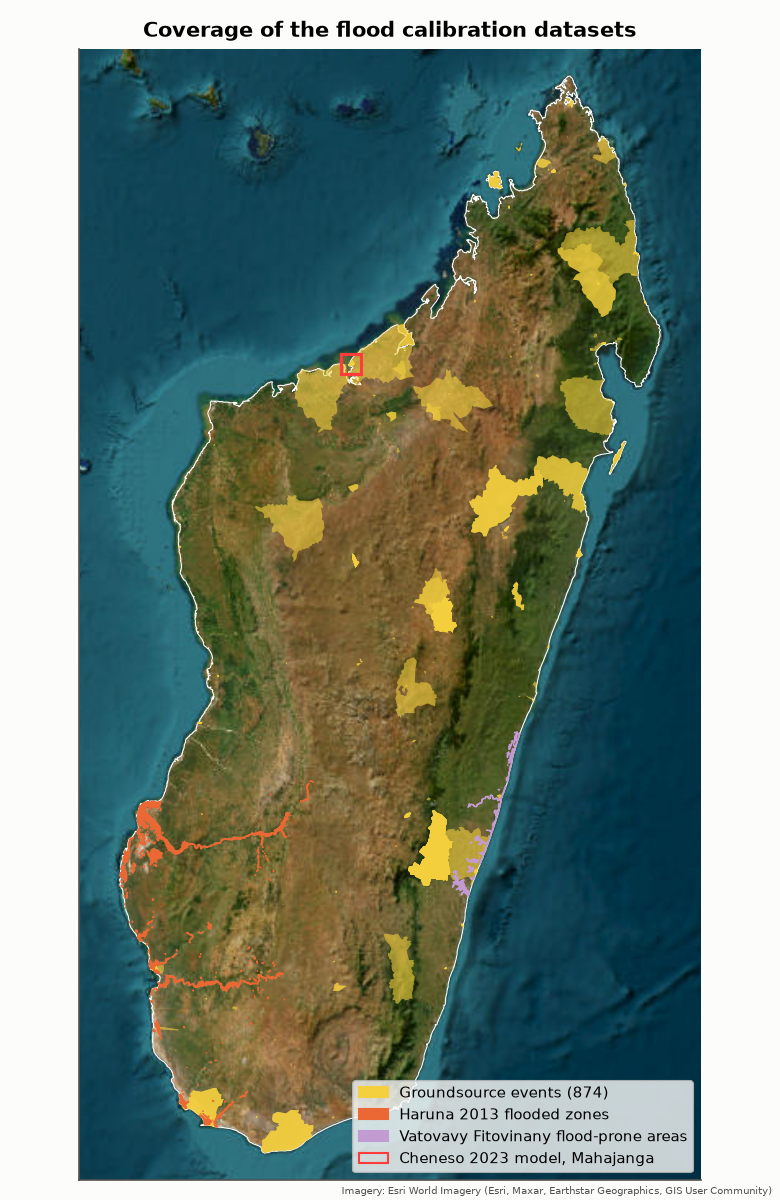
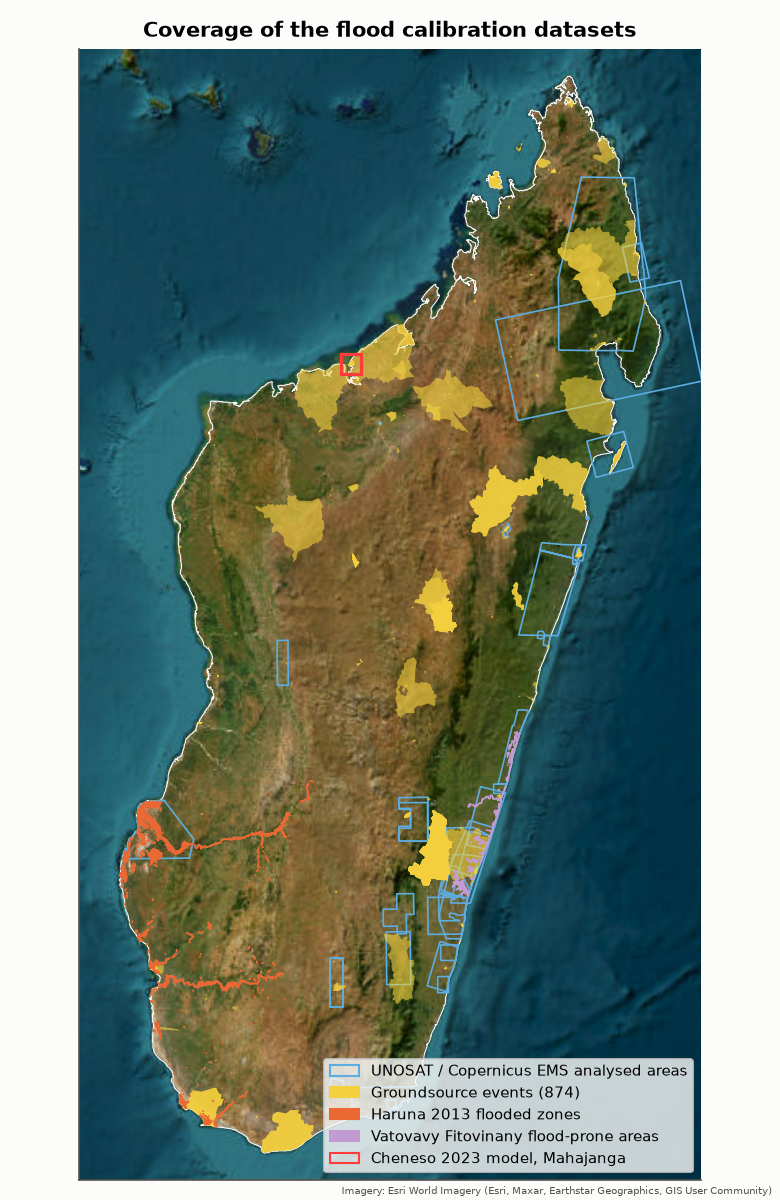
Calibration tab: add UNOSAT and Copernicus EMS flood maps (H5, H6)
Nine UNOSAT event archives (2017-2025, via HDX) and two Copernicus EMS
activations (Fytia, Gezani 2026) with analysed areas, flooded area and
flood-driver split per event, national coverage and example maps.
Event list for calibration/validation updated (Batsirai, Emnati,
Gezani added as main validation events).

diff --git a/web/src/components/Calibration.tsx b/web/src/components/Calibration.tsx
@@ -21,7 +21,14 @@ interface Inventory {
     driver_pct: { coastal: number; fluvial_prone: number; headwater: number }
     top_storms: [string, number][]; top_nontc_months: [string, number][]
   }
+  rapid?: { event: string; source: string; sensors: string; dates: string; n_areas: number; analysed_km2: number | null; flooded_km2: number; driver_pct: Drivers }[]
 }
+
+const rapidRows = (r: Inventory['rapid'], source: string) => (r ?? []).filter((x) => x.source === source).map((x) => [
+  x.event, x.dates || '–', x.sensors, x.n_areas, x.analysed_km2 === null ? '–' : fmt(x.analysed_km2), x.flooded_km2 ? fmt(x.flooded_km2, 1) : 'none mapped',
+  Object.keys(x.driver_pct).length ? `${pct(x.driver_pct, 'coastal')} / ${pct(x.driver_pct, 'fluvial')} / ${pct(x.driver_pct, 'headwater')}` : '–',
+])
+const RAPID_HEAD = ['Event', 'Image dates', 'Sensors', 'Areas', 'Analysed (km²)', 'Flooded (km²)', 'Coastal / fluvial-prone / headwater']
 
 const CHAPTERS: ChapterEntry[] = [
   { id: 'inventory', number: 1, title: 'Inventory of existing calibration and validation datasets', summary: 'What observed and modelled flood data exist for Madagascar, where they lie, what they can and cannot show about pluvial flooding, and which events to simulate next.' },
@@ -141,17 +148,21 @@ export function Calibration({ palette }: { palette: Palette }) {
     ['H1 Groundsource (news)', 'Reported flood locations, 2005–2026', 'Mixed; ~25% of locations in headwater catchments', 'Validation: hit rate at reported locations; event selection', 'Location check for event impact', 'High (many events, national)'],
     ['H2 Haruna 2013, Atsimo Andrefana', 'Mapped flooded zones, one event', 'Mostly fluvial and coastal', 'Validation of a Haruna run on headwater parts; negative test elsewhere', 'Context', 'Medium'],
     ['H3 Vatovavy Fitovinany flood-prone areas', 'Expert map, no event, no return period', 'Mostly coastal and deltaic', 'Qualitative check only', '–', 'Low'],
+    ['H5 UNOSAT flood extents (9 cyclones)', '3–20 m satellite flood maps with analysed areas, 2017–2025', 'Mostly coastal and fluvial; highland catchments in Haute Matsiatra', 'Validation: CSI and false alarms inside analysed areas', 'Event exposure check', 'High'],
+    ['H6 Copernicus EMS (Fytia, Gezani 2026)', 'Very-high-resolution flood delineation', 'Mixed; urban Antananarivo', 'Validation in town (Antananarivo) and on the east coast', 'Event exposure check', 'High, but small areas'],
     ['H4 Cheneso 2023, Mahajanga (modelled)', '1 m depth from a detailed urban drainage model', 'Pluvial with tidal boundary', 'Calibration benchmark (extent and depth)', 'Event exposure check', 'High, but local and modelled'],
     ['R1 Cyclone impact catalogue 2000–2022', 'Deaths, affected, damage per cyclone and year', 'All cyclone causes', '–', 'Upper bound for average annual affected population and loss; event order of magnitude', 'Medium'],
     ['R2 Flood events 1985–2022', 'Deaths and affected per flood event', 'Flooding (21 cyclone events, 1 heavy rain)', '–', 'People affected per event (flood only)', 'Medium'],
   ]
 
   const nextEvents: (string | number)[][] = [
-    ['Cheneso, Jan 2023', 'Cyclone', 'Mahajanga (Metzinger valley); north-west', 'H4 depth and extent; Groundsource locations', 'Calibration: roughness, infiltration (curve number), depth bias. Also run the study\'s 10-year 24 h storm against our 10-year design'],
-    ['Ana, Jan 2022', 'Cyclone (weak) / heavy rain', 'Antananarivo and highlands', `Groundsource (${g?.top_storms.find((s) => s[0].startsWith('Ana'))?.[1] ?? '…'} reports, most of any storm); R1 960,000 affected`, 'Validation of hazard (hit rate) and event affected population'],
-    ['Feb 2015 heavy rains', 'Non-cyclone', 'Antananarivo', `Groundsource (${g?.top_nontc_months.find((s) => s[0] === '2015-02')?.[1] ?? '…'} reports, largest non-cyclone month)`, 'Validation of the 12 h non-cyclone storm'],
-    ['Haruna, Feb 2013', 'Cyclone', 'Atsimo Andrefana (south-west)', 'H2 headwater parts (CSI); fluvial and coastal parts as negative test', 'Validation of extent'],
-    ['Enawo 2017, Batsirai 2022, Gamane 2024', 'Cyclone', 'North-east, east, north', 'Groundsource; R1 (Enawo 415 M USD, 430,000 affected)', 'Validation across regions and event impact'],
+    ['Cheneso, Jan 2023', 'Cyclone', 'Mahajanga (Metzinger valley)', 'H4 depth and extent; Groundsource locations', 'Calibration: roughness, curve-number condition, depth bias; also the study\'s 10-year 24 h storm against our 10-year design'],
+    ['Batsirai and Emnati, Feb 2022', 'Cyclone', 'Haute Matsiatra highlands; south-east plains', 'H5 flood extents (13 areas each), headwater parts first', 'Validation of extent (CSI, hit rate, false alarms) in highland catchments'],
+    ['Gezani, Feb 2026', 'Cyclone', 'Antananarivo; Toamasina; Ambatondrazaka', 'H6 very-high-resolution flooded areas; Groundsource', 'Validation in town; needs IMERG Late rainfall'],
+    ['Ana, Jan 2022', 'Cyclone (weak) / heavy rain', 'Antananarivo and highlands', `Groundsource (${g?.top_storms.find((s) => s[0].startsWith('Ana'))?.[1] ?? '…'} reports); R1 960,000 affected`, 'Validation of hit rate and event affected population (no satellite map)'],
+    ['Feb 2015 heavy rains', 'Non-cyclone', 'Antananarivo', `Groundsource (${g?.top_nontc_months.find((s) => s[0] === '2015-02')?.[1] ?? '…'} reports)`, 'Validation of the 12 h non-cyclone storm'],
+    ['Ava 2018, Freddy 2023', 'Cyclone', 'East and south-east coast', 'H5 flood extents', 'Check that coastal and fluvial flooding is not attributed to the pluvial model (negative test)'],
+    ['Haruna, Feb 2013', 'Cyclone', 'Atsimo Andrefana', 'H2 headwater parts', 'Secondary validation of extent'],
   ]
 
   return (
@@ -161,15 +172,15 @@ export function Calibration({ palette }: { palette: Palette }) {
       <Chapter entry={CHAPTERS[0]}
         builds={<>the design storms (Rainfall tab), the flood model setup and the risk computation (Risk tab).</>}
         outcome={<>
-          One dataset can calibrate (Cheneso in Mahajanga, itself a model); Groundsource and the Haruna extent can validate once
+          One dataset can calibrate (Cheneso in Mahajanga, itself a model); the UNOSAT and Copernicus EMS satellite maps, Groundsource and the Haruna extent can validate once
           fluvial and coastal flooding are set aside; the impact catalogues bound the risk metrics from above. Next steps: simulate the
-          five event groups in the last table, forced with half-hourly GPM IMERG, calibrate on Cheneso, then validate on the others
+          seven event groups in the last table, forced with half-hourly GPM IMERG, calibrate on Cheneso, then validate on the others
           and compare modelled event and average annual impacts with R1 and R2.
         </>}>
 
-        <Card title="Where the datasets lie" subtitle="Regional extents in the south-west and south-east, one urban catchment in the north-west, news reports island-wide">
+        <Card title="Where the datasets lie" subtitle="Satellite flood maps mostly along the east and south-east coast, regional extents in the south-west and south-east, one urban catchment in the north-west, news reports island-wide">
           <Figure src={fig('calinv_coverage.png')} maxHeight={720}
-            alt="Map of Madagascar with Groundsource event locations, Haruna flooded zones, Vatovavy Fitovinany flood-prone areas and the Mahajanga model box" />
+            alt="Map of Madagascar with Groundsource event locations, Haruna flooded zones, Vatovavy Fitovinany flood-prone areas, UNOSAT and Copernicus EMS analysed areas and the Mahajanga model box" />
           <Info>
             None of these datasets is specific to pluvial flooding. The hazard data are therefore read through a separation of
             flood drivers, and the impact data are used as upper bounds rather than calibration targets.
@@ -216,6 +227,31 @@ export function Calibration({ palette }: { palette: Palette }) {
           ['Limitations', 'A model, not an observation; includes canals, culverts and blockages that SFINCS at catchment scale does not resolve; one small catchment.'],
         ]}>
           <Figure src={fig('calinv_mahajanga.png')} alt="Map of modelled maximum water depth in the Metzinger valley, Mahajanga, and bar chart of flooded area by depth class" />
+        </Dataset>
+
+        <Dataset id="H5" title="UNOSAT satellite-detected flood extents" kind="Event flood maps from satellite imagery, 2017–2025, nine cyclones" rows={[
+          ['Content', 'Flood extent (water detected after the event minus normal water) and the analysed area for each image, mostly Sentinel-1/2, TerraSAR-X, RCM and KOMPSAT-5 at about 3–20 m; one national VIIRS map at 375 m for January 2020. Outside the analysed area nothing was observed.'],
+          ['Source', 'UNITAR-UNOSAT rapid mapping, distributed on the Humanitarian Data Exchange (42 Madagascar entries, nine archives). Free for humanitarian and research use with attribution.'],
+          ['Flood drivers', 'Not labelled. Most maps cover the east and south-east coastal plains and lower rivers; Haute Matsiatra (Fianarantsoa highlands, Batsirai and Emnati 2022) is the main exception.'],
+          ['Limitations', 'Single snapshots a few days after landfall (pluvial ponding may already have drained); radar misses water in dense built-up areas and under vegetation; the Alvaro 2024 archive has analysed areas but no flood layer.'],
+        ]}>
+          <Figure src={fig('calinv_rapid_coverage.png')} maxHeight={720} alt="Map of Madagascar with UNOSAT and Copernicus EMS analysed areas and flooded areas coloured by event" />
+          <div className="mt-3">
+            <TextTable caption="UNOSAT maps per event; flooded area merged over all images of the event; flood-driver split of the flooded area (coastal within 10 km of the shore / catchment with upstream inflow / headwater)"
+              head={RAPID_HEAD} rows={rapidRows(inv?.rapid, 'UNOSAT')} />
+          </div>
+        </Dataset>
+
+        <Dataset id="H6" title="Copernicus EMS rapid mapping" kind="Very-high-resolution flood delineation, 2026, two cyclones" rows={[
+          ['Content', 'Observed flooded areas and flood traces, delineated by photo-interpretation and semi-automatic extraction on very-high-resolution imagery, within each area of interest (grading products and their monitoring updates).'],
+          ['Source', 'Copernicus Emergency Management Service, rapid mapping activations EMSR863 (Fytia, January 2026) and EMSR867 (Gezani, February 2026). The public catalogue lists no earlier Madagascar activation.'],
+          ['Flood drivers', 'Not labelled. Gezani includes Antananarivo, the only very-high-resolution urban flood map available; most of it lies in the Ikopa plain (fluvial), the rest in town.'],
+          ['Limitations', 'Small areas of interest (8–113 km²); 2026 events lie beyond the GPM IMERG Final record (to September 2025), so their runs need IMERG Late rainfall.'],
+        ]}>
+          <TextTable caption="Copernicus EMS maps per event" head={RAPID_HEAD} rows={rapidRows(inv?.rapid, 'Copernicus EMS')} />
+          <div className="mt-3">
+            <Figure src={fig('calinv_rapid_examples.png')} alt="Three satellite maps of flooded areas coloured by likely driver: Haute Matsiatra after Batsirai, Antananarivo after Gezani, Manakara after Freddy" />
+          </div>
         </Dataset>
 
         <h3 className="pt-2 text-lg font-semibold text-ink">Risk datasets</h3>
@@ -278,9 +314,9 @@ export function Calibration({ palette }: { palette: Palette }) {
           <div className="mt-4" />
           <Steps items={[
             { title: '1 · Calibrate on Cheneso (H4)', body: 'Run the Mahajanga catchment with the Cheneso rainfall and tide; tune Manning roughness and curve-number condition to match the H4 extent (critical success index) and depth distribution; check the 10-year design against the study\'s 10-year 24 h storm.' },
-            { title: '2 · Validate hazard', body: 'Freeze parameters; run Ana, Feb 2015, Haruna, Enawo, Batsirai and Gamane. Score the hit rate at Groundsource locations in headwater catchments (flooded above 15 cm within the footprint) and the critical success index on the Haruna headwater polygons; fluvial and coastal parts of H2 and H3 should stay mostly dry in the pluvial model.' },
+            { title: '2 · Validate hazard', body: 'Freeze parameters; run Batsirai, Emnati, Gezani, Ana, Feb 2015, Ava, Freddy and Haruna. Score the critical success index and false alarms on the UNOSAT and Copernicus EMS maps inside their analysed areas, headwater catchments first, and the hit rate at Groundsource locations (flooded above 15 cm within the footprint); coastal and fluvial parts of H2, H3 and H5 should stay mostly dry in the pluvial model.' },
             { title: '3 · Validate risk', body: 'Overlay event depths with exposure: people affected and loss per event against R1 and R2 (pluvial share expected well below the totals). Then compare modelled average annual affected population and loss with the R1 means as an upper bound.' },
-            { title: '4 · Data still to obtain', body: 'The Sava flood-prone polygons; the observation date and method of the Haruna map; event flood maps from Copernicus EMS / UNOSAT for Ana, Batsirai and Freddy where they exist.' },
+            { title: '4 · Data still to obtain', body: 'The Sava flood-prone polygons; the observation date and method of the Haruna map; own Sentinel-1 flood maps for events without UNOSAT or Copernicus EMS products (Ana 2022, Cheneso 2023, Feb 2015 rains); commune-level impacts (DesInventar, BNGRC situation reports) for risk.' },
           ]} />
         </Card>
       </Chapter>
